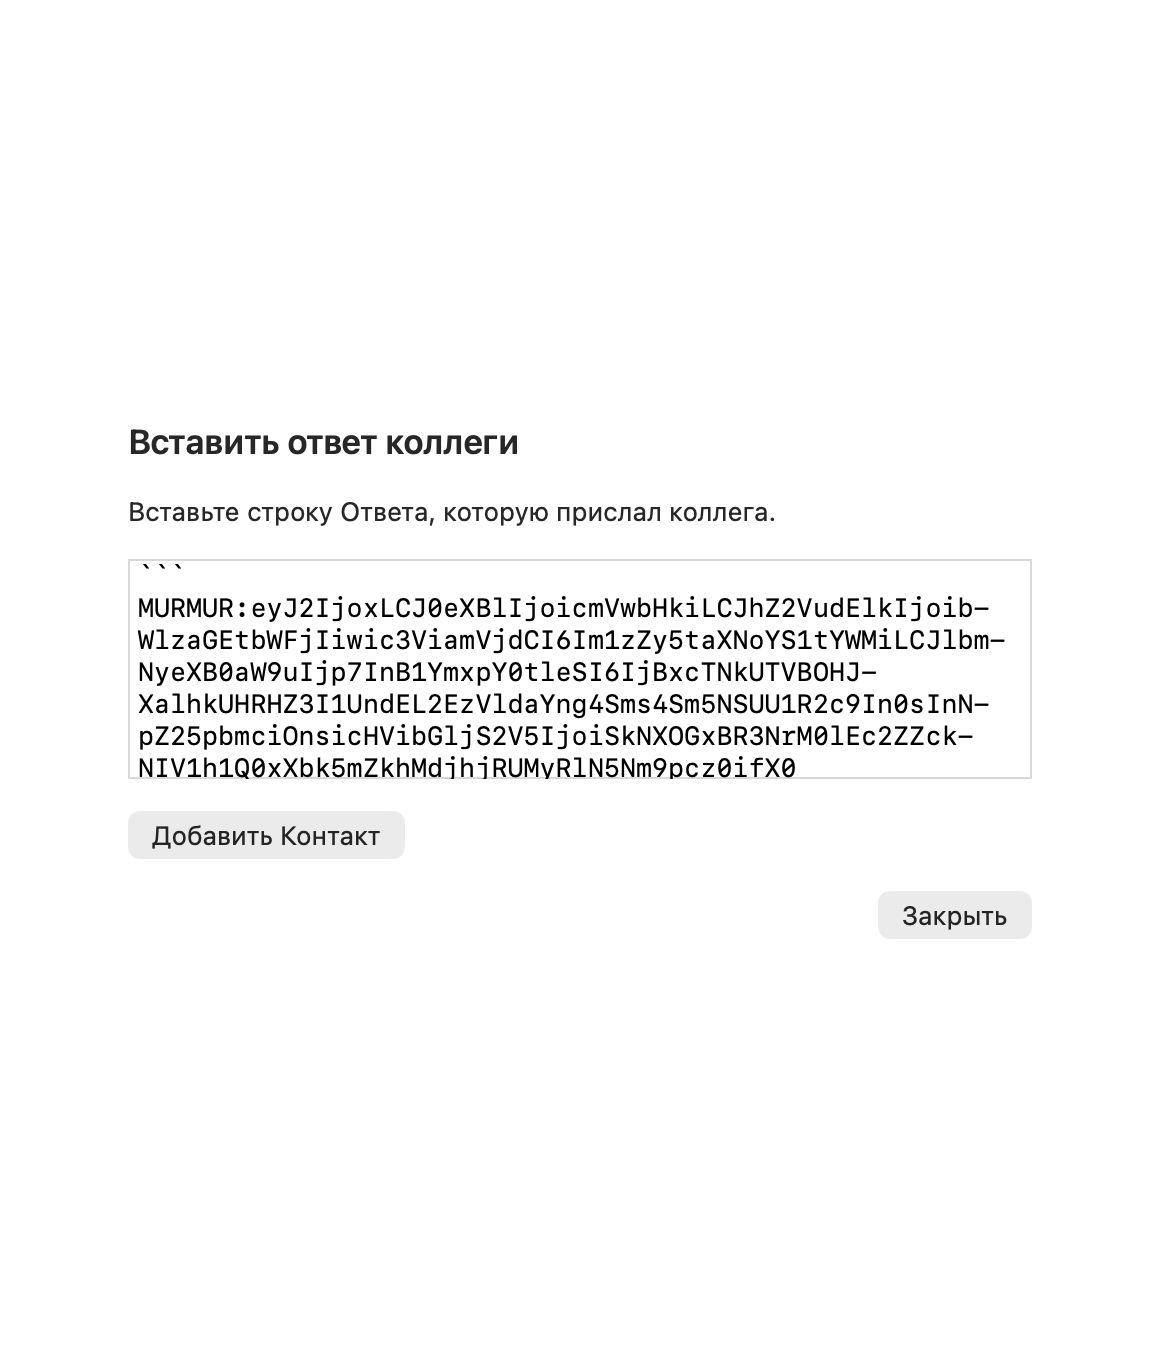
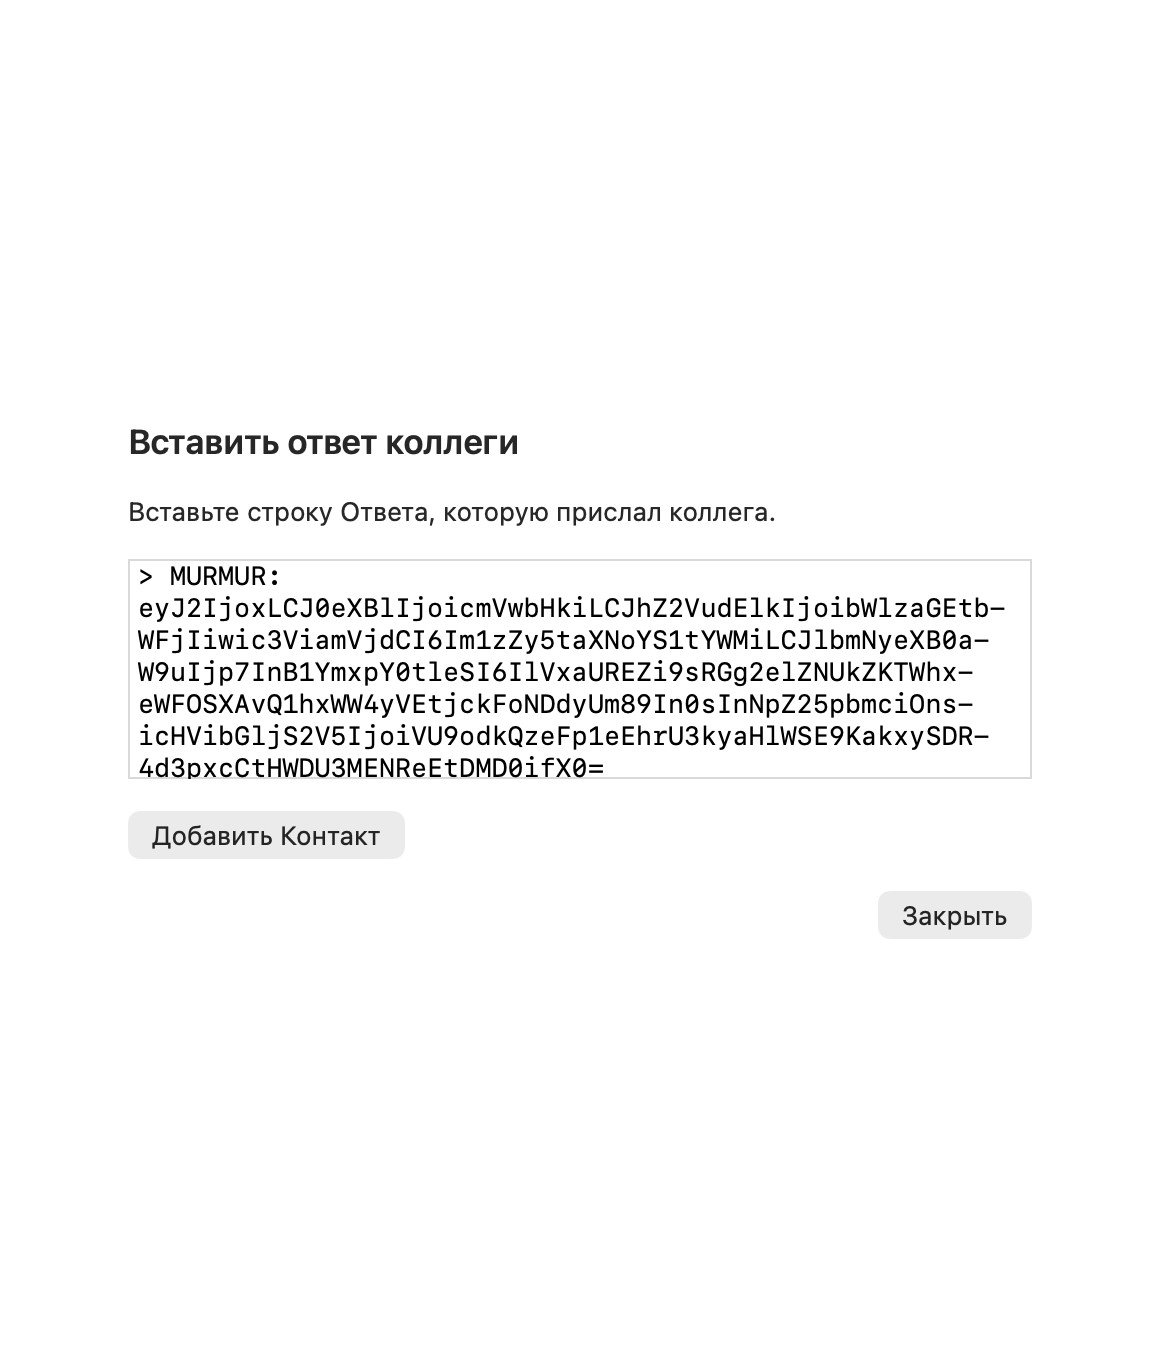
fix(macos): normalize legacy pairing lines like Windows

Changed region(s): [[0.1241, 0.4015, 0.869, 0.5868]]

diff --git a/apps/macos-menubar/evidence/pairing-native.swift b/apps/macos-menubar/evidence/pairing-native.swift
@@ -5,6 +5,20 @@ import MurmurTrayCore
 // Compile with the app's views/model and TrayCore, excluding DesktopEntry.swift.
 // Temporary HOME + CFFIXED_USER_HOME are mandatory; no live profile or Service.
 @main struct PairingNativeAcceptance {
+    static func legacyLine(_ line: String) -> String {
+        var encoded = String(line.dropFirst("MURMUR:".count))
+            .replacingOccurrences(of: "-", with: "+").replacingOccurrences(of: "_", with: "/")
+        encoded += String(repeating: "=", count: (4 - encoded.count % 4) % 4)
+        var payload = Data(base64Encoded: encoded)!
+        // JSON trailing whitespace is valid; ensure padding exercises the
+        // engine's standard-base64 branch even with an unpadded original.
+        if payload.count % 3 == 0 { payload.append(0x20) }
+        return "MURMUR:" + payload.base64EncodedString()
+    }
+    static func quotedWithFormatCharacters(_ line: String) -> String {
+        let formatted = "MUR\u{200e}MUR:\u{200b}" + line.dropFirst("MURMUR:".count) + "\u{ad}"
+        return "> " + formatted + "\n\n" + line + "\n— colleague"
+    }
     @MainActor static func capture<V: View>(_ view: V, to path: URL, height: CGFloat = 680) throws {
         let host = NSHostingView(rootView: view.frame(width: 580, height: height)
             .background(Color(nsColor: .windowBackgroundColor)).environment(\.colorScheme, .light))
@@ -68,13 +82,13 @@ import MurmurTrayCore
 
         let joining = TrayModel(startRuntime: false)
         joining.useInvitation(); joining.creationAgentID = "misha-mac"
-        joining.pairingInput = "💌 «" + invitation + "»\n— colleague"; joining.joinInvitationLine()
+        joining.pairingInput = quotedWithFormatCharacters(legacyLine(invitation)); joining.joinInvitationLine()
         try await settled(joining)
         precondition(joining.agentID == "misha-mac" && joining.creationError == nil)
         let reply = clipboard.string(forType: .string)!
         precondition(reply == joining.pairingOutput && reply.hasPrefix("MURMUR:") && reply != invitation)
         try capture(PairingSheet(model: joining), to: pictures.appendingPathComponent("after-reply-\(language).png"))
-        inviter.beginPairing(.reply); inviter.pairingInput = "```\n" + reply + "\n```\n— colleague"
+        inviter.beginPairing(.reply); inviter.pairingInput = quotedWithFormatCharacters(legacyLine(reply))
         try capture(PairingSheet(model: inviter), to: pictures.appendingPathComponent("after-paste-reply-\(language).png"))
         inviter.addReplyLine(); try await settled(inviter)
         precondition(inviter.pairingError == nil && inviter.status?.peers.list?.contains(where: { $0.agentId == "misha-mac" }) == true)
@@ -108,13 +122,13 @@ import MurmurTrayCore
         precondition(first.canUseInvitation && first.pairingIdentity == "first-inviter" && first.showPairingSheet)
         first.creationAgentID = "must-not-create-this"
         try capture(PairingSheet(model: first), to: pictures.appendingPathComponent("after-existing-join-\(language).png"))
-        first.pairingInput = invitation + "\n" + invitation
+        first.pairingInput = invitation + "\n" + publicInvitation
         let clipboardBeforeRefusal = clipboard.string(forType: .string)
         first.joinInvitationLine(); try await settled(first)
         let refusedConfig = try Data(contentsOf: configFile)
         precondition(first.pairingError != nil && refusedConfig == before && first.pairingOutput == nil)
         precondition(clipboard.string(forType: .string) == clipboardBeforeRefusal)
-        first.pairingInput = "Here is the Invitation: «" + invitation + "»\n— colleague"
+        first.pairingInput = quotedWithFormatCharacters(invitation)
         first.joinInvitationLine(); try await settled(first)
         let existingReply = first.pairingOutput!
         precondition(first.pairingError == nil && first.profile == originalProfile && first.agentID == "first-inviter")
@@ -147,7 +161,7 @@ import MurmurTrayCore
         first.joinInvitationLine()
         precondition(!first.operating && first.pairingError == PairingError.unconfirmed.localizedDescription)
         clipboard.clearContents()
-        print("PASS native \(language): public-address prompt, credential gate, clipboard Invitation, messenger stdin join, clipboard Reply, messenger stdin add-peer, both Contacts verified, Reply recovery, cancellation, first-run inviter, existing Identity form, ambiguous paste unchanged, existing Identity and keys preserved, existing Reply and both Contacts, Server conflict unchanged, changed selection refused")
+        print("PASS native \(language): public-address prompt, credential gate, clipboard Invitation, legacy/Cf/quoted stdin join, clipboard Reply, legacy/Cf/quoted stdin add-peer, both Contacts verified, Reply recovery, cancellation, first-run inviter, existing Identity form, different tokens refused unchanged, identical Cf quote accepted with Identity and keys preserved, existing Reply and both Contacts, Server conflict unchanged, changed selection refused")
         print("16 native checks passed; no Service or network exchange claimed")
     }
 }

diff --git a/apps/macos-menubar/Tests/MurmurTrayCoreTests/PairingTests.swift b/apps/macos-menubar/Tests/MurmurTrayCoreTests/PairingTests.swift
@@ -60,13 +60,21 @@ func runPairingChecks(fixtures: URL) throws -> Int {
         count += 1; print("PASS pairing: \(name)")
     }
     let token = "MURMUR:eyJ2IjoxLCJ0eXBlIjoiaW52aXRlIn0"
-    // Shared messenger cases from Windows #261. Mac's contract is exactly one
-    // base64url token: even two identical copies are ambiguous and are refused.
+    let legacy = "MURMUR:eyJ2Ijox+/eyJ0eXBlIjoi=="
+    // Exact input/output cases from Windows #261 at 1bcba16, with extra Unicode
+    // coverage. A message and its identical quote count as one line.
     for (name, pasted, expected) in [
         ("signature", token + "\n\n↑ Copy only the MURMUR: line above.\n\n▓▒░ signature", token),
         ("quotes", "Here is the invitation: «" + token + "»", token),
         ("code fence", "```\n" + token + "\n```", token),
         ("whitespace", "\t" + token + "\r\n", token),
+        ("identical quoted tokens", "> " + token + "\n\n" + token + "\nthe same line quoted", token),
+        ("zero-width space", "MURMUR:eyJ2Ijox\u{200b}LCJ0eXBlIjoiaW52aXRlIn0", token),
+        ("legacy base64", "file written by v2.11: " + legacy + "\n", legacy),
+        ("soft hyphen", "MURMUR:eyJ2Ijox\u{ad}LCJ0eXBlIjoiaW52aXRlIn0", token),
+        ("bidi marks in prefix and body", "MUR\u{2066}MUR:\u{200e}eyJ2IjoxLCJ0eXBlIjoiaW52aXRlIn0\u{2069}", token),
+        ("non-BMP format character", "MURMUR:eyJ2Ijox\u{e0001}LCJ0eXBlIjoiaW52aXRlIn0", token),
+        ("duplicates after Cf removal", "> MURMUR:eyJ2Ijox\u{200b}LCJ0eXBlIjoiaW52aXRlIn0\n" + token, token),
         ("emoji prefix", "💌 Приглашение: \"" + token + "\"", token),
         ("padding", "Reply: \"MURMUR:abcd_ef-==\" — signature", "MURMUR:abcd_ef-=="),
         ("wrapped token is left to engine", "MURMUR:eyJ2Ijox\nLCJ0eXBlIjoiaW52aXRlIn0", "MURMUR:eyJ2Ijox"),
@@ -78,7 +86,8 @@ func runPairingChecks(fixtures: URL) throws -> Int {
         ("missing", "only the prefix MURMUR: is mentioned"),
         ("empty", "MURMUR:»"),
         ("different tokens", token + "\nMURMUR:another"),
-        ("identical quoted tokens", "> " + token + "\n\n" + token + "\nthe same line quoted"),
+        ("current and legacy tokens", token + "\n" + legacy),
+        ("Cf removal still leaves different tokens", "MURMUR:fir\u{200b}st\nMURMUR:sec\u{ad}ond"),
     ] {
         try scenario("invalid messenger paste \(name) never reaches CLI") { f in
             do {
@@ -88,6 +97,27 @@ func runPairingChecks(fixtures: URL) throws -> Int {
             try reject { _ = try f.client.addReply(pasted, expectedAgent: "agent-misha") }
             try check(!FileManager.default.fileExists(atPath: f.root.appendingPathComponent("calls").path), "No mutation or process")
         }
+    }
+    try scenario("legacy recovery copy preserves every base64 character") { f in
+        let file = f.root.appendingPathComponent("reply.txt")
+        try (legacy + "\n").write(to: file, atomically: true, encoding: .utf8)
+        try check(try PairingLine.recovered(from: file) == legacy, "Old Reply is not truncated")
+    }
+    try scenario("size limit applies before stripping format characters") { f in
+        let pasted = token + String(repeating: "\u{200b}", count: PairingLine.maximumBytes / 3)
+        do {
+            _ = try f.client.joinInvitation(pasted, expectedAgent: "agent-misha")
+            throw CheckFailure(message: "Expected size limit")
+        } catch let error as PairingError { try check(error == .tooLarge, "Bound raw pasted bytes") }
+        try check(!FileManager.default.fileExists(atPath: f.root.appendingPathComponent("calls").path), "No CLI invocation")
+    }
+    try scenario("normalized legacy duplicate reaches stdin once for join and Reply") { f in
+        let pasted = "> " + legacy + "\nMUR\u{200e}MUR:eyJ2Ijox+\u{200b}/eyJ0eXBlIjoi=="
+        _ = try f.client.joinInvitation(pasted, expectedAgent: "agent-misha")
+        try check(try f.text("stdin") == legacy, "Join received full legacy token once")
+        _ = try f.client.addReply(pasted, expectedAgent: "agent-misha")
+        try check(try f.text("stdin") == legacy, "Reply received full legacy token once")
+        try check(try f.text("calls") == "status\njoin\nstatus\nstatus\nadd-peer\nstatus\n", "One import per explicit action")
     }
     try scenario("Server key requires acknowledgement before exposing the line") { f in
         let receipt = try f.client.invite(expectedAgent: "agent-misha")

diff --git a/apps/macos-menubar/Sources/MurmurTrayCore/Pairing.swift b/apps/macos-menubar/Sources/MurmurTrayCore/Pairing.swift
@@ -38,12 +38,22 @@ public enum PairingLine {
     public static let maximumBytes = 16 * 1024
     public static func validated(_ input: String) throws -> String {
         guard input.utf8.count <= maximumBytes else { throw PairingError.tooLarge }
-        let pattern = try NSRegularExpression(pattern: "MURMUR:[A-Za-z0-9_-]+=*")
-        let matches = pattern.matches(in: input, range: NSRange(input.startIndex..., in: input))
-        guard matches.count == 1, let range = Range(matches[0].range, in: input) else {
-            throw PairingError.damaged
+        // Match the Windows parser: remove messenger format characters before
+        // extracting current base64url or legacy standard-base64 lines.
+        let cleaned = String(String.UnicodeScalarView(input.unicodeScalars.filter {
+            $0.properties.generalCategory != .format
+        }))
+        let pattern = try NSRegularExpression(pattern: "MURMUR:[A-Za-z0-9_+/-]+={0,2}")
+        let matches = pattern.matches(in: cleaned, range: NSRange(cleaned.startIndex..., in: cleaned))
+        var token: String?
+        for match in matches {
+            guard let range = Range(match.range, in: cleaned) else { throw PairingError.damaged }
+            let candidate = String(cleaned[range])
+            guard token == nil || token == candidate else { throw PairingError.damaged }
+            token = candidate
         }
-        return String(input[range])
+        guard let token else { throw PairingError.damaged }
+        return token
     }
     // Private recovery copy, never a file exchange step in the interface.
     public static func recovered(from file: URL) throws -> String {

diff --git a/apps/macos-menubar/README.md b/apps/macos-menubar/README.md
@@ -81,10 +81,13 @@ Windows UX не входят в эту итерацию. Патч Copy diagnosti
 доступно только для чтения. После команды проверяются та же Личность и новый
 Контакт в свежем `status`. При другом Сервере появляется просьба получить
 Приглашение для текущего Сервера; настройки не заменяются.
-Из вставки с подписью, кавычками или блоком кода берётся ровно один токен
-`MURMUR:[A-Za-z0-9_-]+=*`. Ноль совпадений или два и больше, включая одинаковые,
-считаются повреждённой строкой. Разорванный переносом токен проверяет движок;
-приложение не склеивает части и не исправляет содержимое самостоятельно.
+Из вставки с подписью, кавычками или блоком кода извлекается строка по регулярке
+`MURMUR:[A-Za-z0-9_+/-]+={0,2}`: поддерживаются base64url и старый base64.
+Перед поиском удаляются невидимые символы категории Unicode Cf. Одинаковые
+совпадения (сообщение и его цитата) считаются одной строкой; разные совпадения
+или их отсутствие — повреждённой строкой. Лимит 16 КБ применяется до удаления
+символов. Разорванный обычным переносом токен проверяет движок; приложение
+не склеивает строки самостоятельно.
 «Пригласить коллегу» вызывает `invite --json`; при частном адресе окно запрашивает
 публичный адрес Сервера и повторяет команду с `--broker` только по нажатию.
 Адрес в настройках Службы не меняется. Если `containsBrokerCredential=true`,

diff --git a/apps/macos-menubar/evidence/pair-by-lines/README.md b/apps/macos-menubar/evidence/pair-by-lines/README.md
@@ -26,19 +26,23 @@ or copy the Invitation before consent; Invitation clipboard content; stdin join;
 Reply clipboard content; stdin add-peer; both Contacts observed in status; and
 the private recovery copy of the Reply; cancellation; and creating the first
 inviting Identity before opening the Invitation sheet. The added checks cover the
-current Identity form; refusal of an ambiguous paste with byte-identical settings;
+current Identity form; refusal of different tokens with byte-identical settings;
 joining with the same Identity, profile and keys; copying its Reply and confirming
 both Contacts; refusal of a different Server with unchanged settings; and refusal
 after the selected profile changes. Invitations and Replies include messenger
-wrappers during the successful native flows. The private copy is not a file exchange
+wrappers, repeated identical quotes and Unicode Cf characters during successful
+native flows. First-time join and Reply import use standard-base64 lines through
+the real engine's legacy decoder; the existing Identity receives base64url.
+The private copy is not a file exchange
 step. These checks do not establish message transport, Wake-up, or two-person
 completion time; that remains a separate live acceptance.
 
-The parser follows the Mac request literally: one match of
-`MURMUR:[A-Za-z0-9_-]+=*`; zero or multiple matches are refused, including two
-identical tokens. Common signature/quote/fence cases are shared with Windows
-#261. Its later duplicate normalization, zero-width removal and legacy base64
-acceptance are not part of this Mac contract. The engine rejects truncated tokens.
+The parser matches Windows #261 at `1bcba16`: strip Unicode Cf characters, then
+extract `MURMUR:[A-Za-z0-9_+/-]+={0,2}`. Identical repeated tokens are accepted;
+different tokens or no token are refused. Legacy base64, zero-width spaces,
+soft hyphens and bidi marks are covered alongside signature/quote/fence cases.
+The 16 KiB bound applies to the original paste. The engine rejects tokens
+truncated by ordinary line breaks.
 
 See `verification.txt` for commands and counts. The final commit is the PR head;
 images and evidence belong to that source revision, not an installed release.
